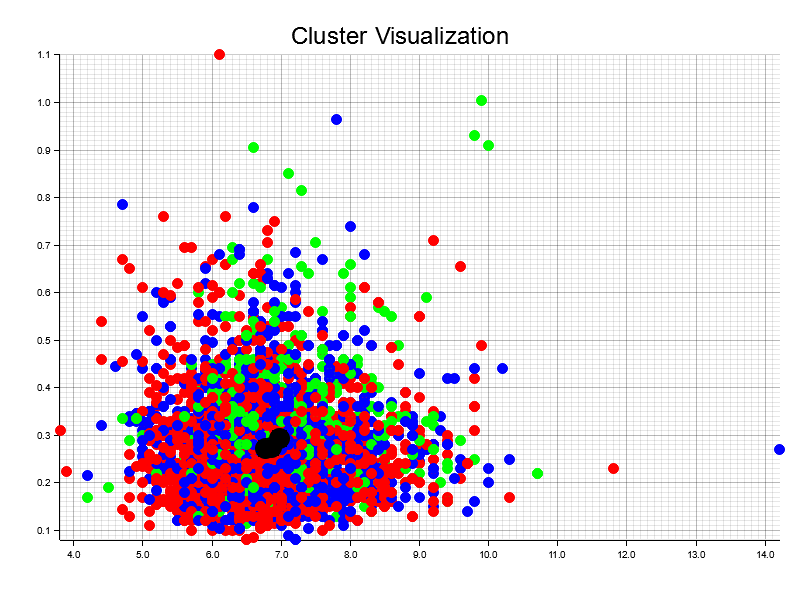
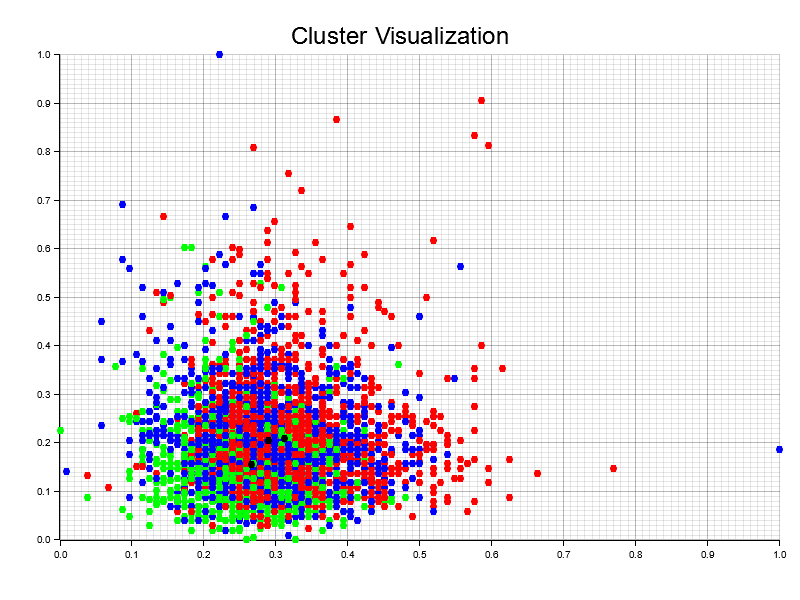
Experimental changes for testing

Changed region(s): [[0.0312, 0.09, 1.0, 0.93]]

diff --git a/src/main.rs b/src/main.rs
@@ -127,7 +127,6 @@ fn plot_elbow_method(results: &Vec<(usize, f64)>) -> Result<(), Box<dyn Error>> 
     Ok(())
 }
 
-/// Plot the clustered data
 fn plot_clusters(
     data: &Vec<Vec<f64>>,
     assignments: &Vec<usize>,
@@ -162,17 +161,17 @@ fn plot_clusters(
         let cluster = assignments[i];
         chart.draw_series(PointSeries::of_element(
             vec![(point[x_index], point[y_index])],
-            5,
+            3,
             colors[cluster % colors.len()],
             &|coord, size, color| EmptyElement::at(coord) + Circle::new((0, 0), size, color.filled()),
         ))?;
     }
 
-    // Plot centroids
-    for (i, centroid) in centroids.iter().enumerate() {
+    // Plot centroids with reduced size
+    for centroid in centroids.iter() {
         chart.draw_series(PointSeries::of_element(
             vec![(centroid[x_index], centroid[y_index])],
-            10,
+            3, // Reduced size for centroids
             &BLACK,
             &|coord, size, color| EmptyElement::at(coord) + Circle::new((0, 0), size, color.filled()),
         ))?;
@@ -181,6 +180,7 @@ fn plot_clusters(
     println!("Cluster plot saved as '{}'.", file_name);
     Ok(())
 }
+
 
 /// Load CSV data and parse it into a vector of vectors
 fn load_csv(file_path: &str) -> Result<Vec<Vec<f64>>, Box<dyn Error>> {
@@ -200,11 +200,25 @@ fn load_csv(file_path: &str) -> Result<Vec<Vec<f64>>, Box<dyn Error>> {
     Ok(data)
 }
 
+fn normalize(data: &mut Vec<Vec<f64>>) {
+    let n_features = data[0].len();
+    for j in 0..n_features {
+        let min_val = data.iter().map(|row| row[j]).fold(f64::INFINITY, f64::min);
+        let max_val = data.iter().map(|row| row[j]).fold(f64::NEG_INFINITY, f64::max);
+        for row in data.iter_mut() {
+            row[j] = (row[j] - min_val) / (max_val - min_val);
+        }
+    }
+}
+
 fn main() -> Result<(), Box<dyn Error>> {
     let file_path = "winequality-white.csv";
 
     println!("Loading data...");
-    let data = load_csv(file_path)?;
+    let mut data = load_csv(file_path)?;
+    println!("Normalizing data...");
+    normalize(&mut data);
+       
 
     let max_k = 10;
     let max_iterations = 100;
